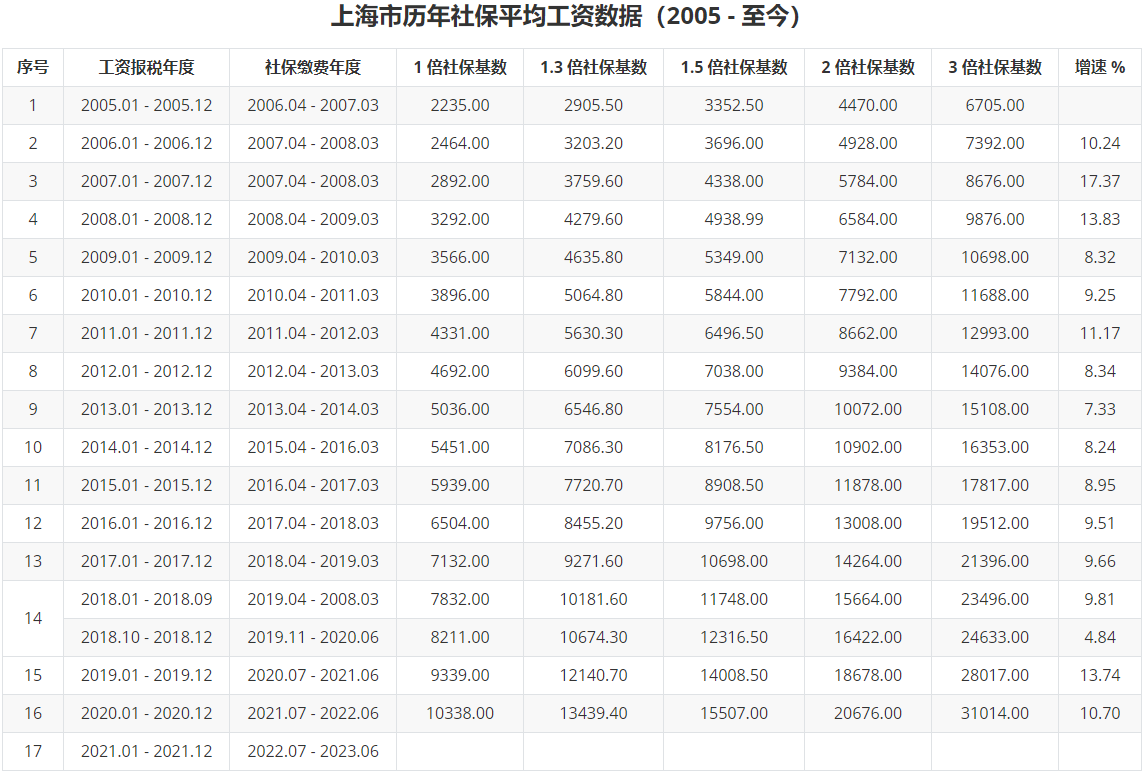
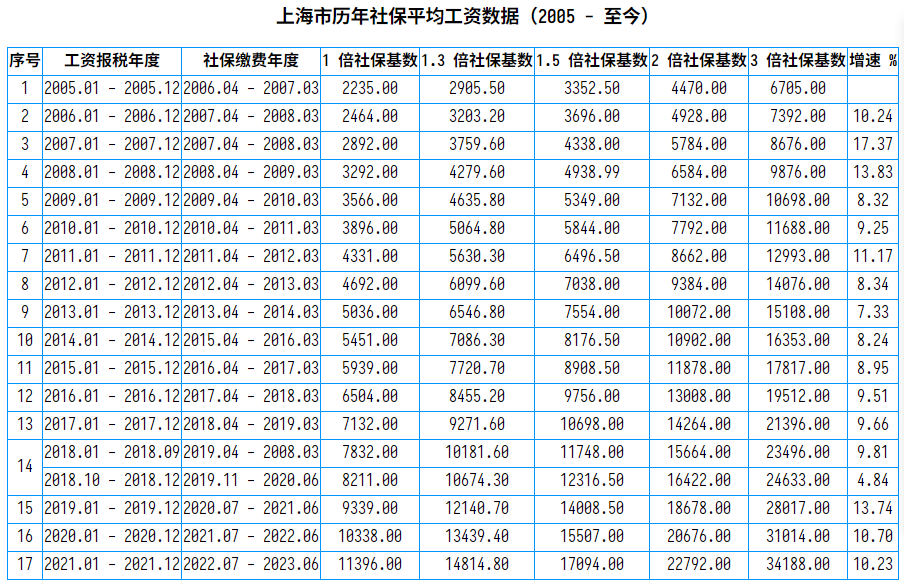
更新 2022 年社保基数信息

Changed region(s): [[0.0, 0.0, 1.0, 1.0]]

diff --git a/history_salary.html b/history_salary.html
@@ -1,0 +1,64 @@
+<h3 align="center">上海市历年社保平均工资数据（2005 - 至今）</h3>
+<style>
+        table,table tr th, table tr td { border:1px solid #0094ff; }
+        table {min-height: 25px; line-height: 25px; text-align: center; border-collapse: collapse;}   
+    </style>
+<table align="center">
+    <tr align="center">
+        <th>序号</th><th>工资报税年度</th><th>社保缴费年度</th><th>社保基数</th><th>1.3 倍社保基数</th><th>1.5 倍社保基数</th><th>2 倍社保基数</th><th>3 倍社保基数</th><th>增速 %</th>
+    </tr>
+    <tr align="center">
+        <td>1</td><td>2005.01 - 2005.12</td><td>2006.04 - 2007.03</td><td>2235.00</td><td>2905.50</td><td>3352.50</td><td>4470.00</td><td>6705.00</td><td></td>
+  </tr>
+    <tr align="center">
+        <td>2</td><td>2006.01 - 2006.12</td><td>2007.04 - 2008.03</td><td>2464.00</td><td>3203.20</td><td>3696.00</td><td>4928.00</td><td>7392.00</td><td>10.24</td>
+    </tr>
+    <tr align="center">
+        <td>3</td><td>2007.01 - 2007.12</td><td>2007.04 - 2008.03</td><td>2892.00</td><td>3759.60</td><td>4338.00</td><td>5784.00</td><td>8676.00</td><td>17.37</td>
+    </tr>
+    <tr align="center">
+        <td>4</td><td>2008.01 - 2008.12</td><td>2008.04 - 2009.03</td><td>3292.00</td><td>4279.60</td><td>4938.99</td><td>6584.00</td><td>9876.00</td><td>13.83</td>
+    </tr>
+    <tr align="center">
+        <td>5</td><td>2009.01 - 2009.12</td><td>2009.04 - 2010.03</td><td>3566.00</td><td>4635.80</td><td>5349.00</td><td>7132.00</td><td>10698.00</td><td>8.32</td>
+    </tr>
+    <tr align="center">
+        <td>6</td><td>2010.01 - 2010.12</td><td>2010.04 - 2011.03</td><td>3896.00</td><td>5064.80</td><td>5844.00</td><td>7792.00</td><td>11688.00</td><td>9.25</td>
+    </tr>
+    <tr align="center">
+        <td>7</td><td>2011.01 - 2011.12</td><td>2011.04 - 2012.03</td><td>4331.00</td><td>5630.30</td><td>6496.50</td><td>8662.00</td><td>12993.00</td><td>11.17</td>
+    </tr>
+    <tr align="center">
+        <td>8</td><td>2012.01 - 2012.12</td><td>2012.04 - 2013.03</td><td>4692.00</td><td>6099.60</td><td>7038.00</td><td>9384.00</td><td>14076.00</td><td>8.34</td>
+    </tr>
+    <tr align="center">
+        <td>9</td><td>2013.01 - 2013.12</td><td>2013.04 - 2014.03</td><td>5036.00</td><td>6546.80</td><td>7554.00</td><td>10072.00</td><td>15108.00</td><td>7.33</td>
+    </tr>
+    <tr align="center">
+        <td>10</td><td>2014.01 - 2014.12</td><td>2015.04 - 2016.03</td><td>5451.00</td><td>7086.30</td><td>8176.50</td><td>10902.00</td><td>16353.00</td><td>8.24</td>
+    </tr>
+    <tr align="center">
+        <td>11</td><td>2015.01 - 2015.12</td><td>2016.04 - 2017.03</td><td>5939.00</td><td>7720.70</td><td>8908.50</td><td>11878.00</td><td>17817.00</td><td>8.95</td>
+    </tr>
+    <tr align="center">
+        <td>12</td><td>2016.01 - 2016.12</td><td>2017.04 - 2018.03</td><td>6504.00</td><td>8455.20</td><td>9756.00</td><td>13008.00</td><td>19512.00</td><td>9.51</td>
+    </tr>
+    <tr align="center">
+        <td>13</td><td>2017.01 - 2017.12</td><td>2018.04 - 2019.03</td><td>7132.00</td><td>9271.60</td><td>10698.00</td><td>14264.00</td><td>21396.00</td><td>9.66</td>
+    </tr>
+    <tr align="center">
+        <td rowspan="2">14</td><td>2018.01 - 2018.09</td><td>2019.04 - 2008.03</td><td>7832.00</td><td>10181.60</td><td>11748.00</td><td>15664.00</td><td>23496.00</td><td>9.81</td>
+    </tr>
+    <tr align="center">
+        <td>2018.10 - 2018.12</td><td>2019.11 - 2020.06</td><td>8211.00</td><td>10674.30</td><td>12316.50</td><td>16422.00</td><td>24633.00</td><td>4.84</td>
+    </tr>
+    <tr align="center">
+        <td>15</td><td>2019.01 - 2019.12</td><td>2020.07 - 2021.06</td><td>9339.00</td><td>12140.70</td><td>14008.50</td><td>18678.00</td><td>28017.00</td><td>13.74</td>
+    </tr>
+    <tr align="center">
+        <td>16</td><td>2020.01 - 2020.12</td><td>2021.07 - 2022.06</td><td>10338.00</td><td>13439.40</td><td>15507.00</td><td>20676.00</td><td>31014.00</td><td>10.70</td>
+    </tr>
+    <tr align="center">
+        <td>17</td><td>2021.01 - 2021.12</td><td>2022.07 - 2023.06</td><td>11396.00</td><td>14814.80</td><td>17094.00</td><td>22792.00</td><td>34188.00</td><td>10.23</td>
+    </tr>
+</table>
